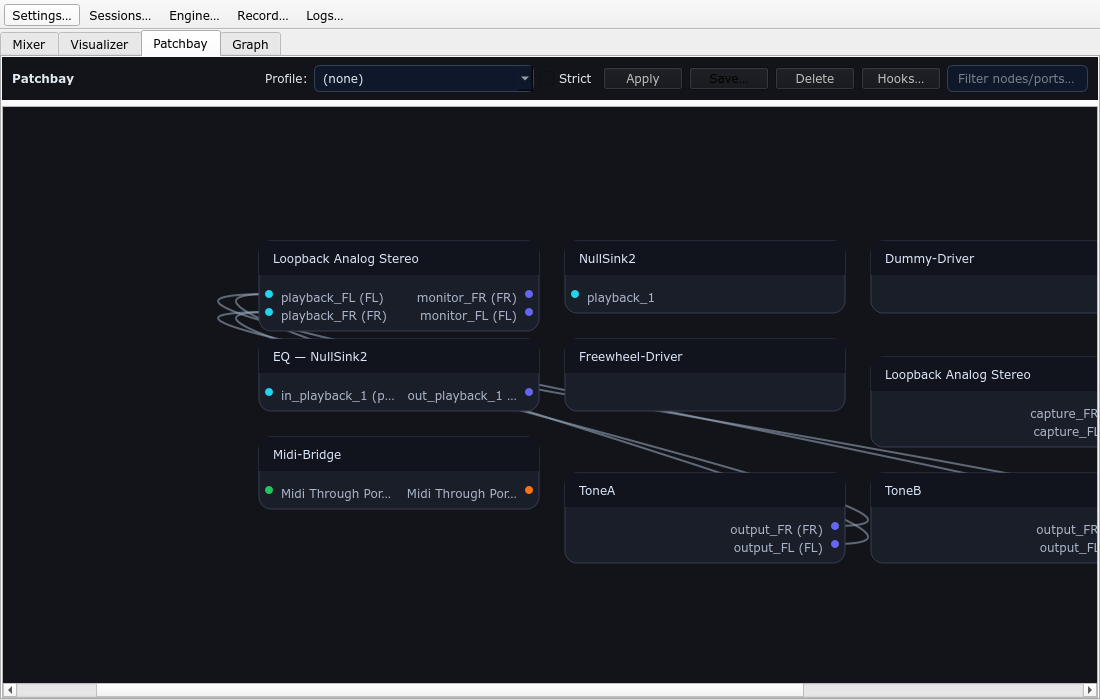
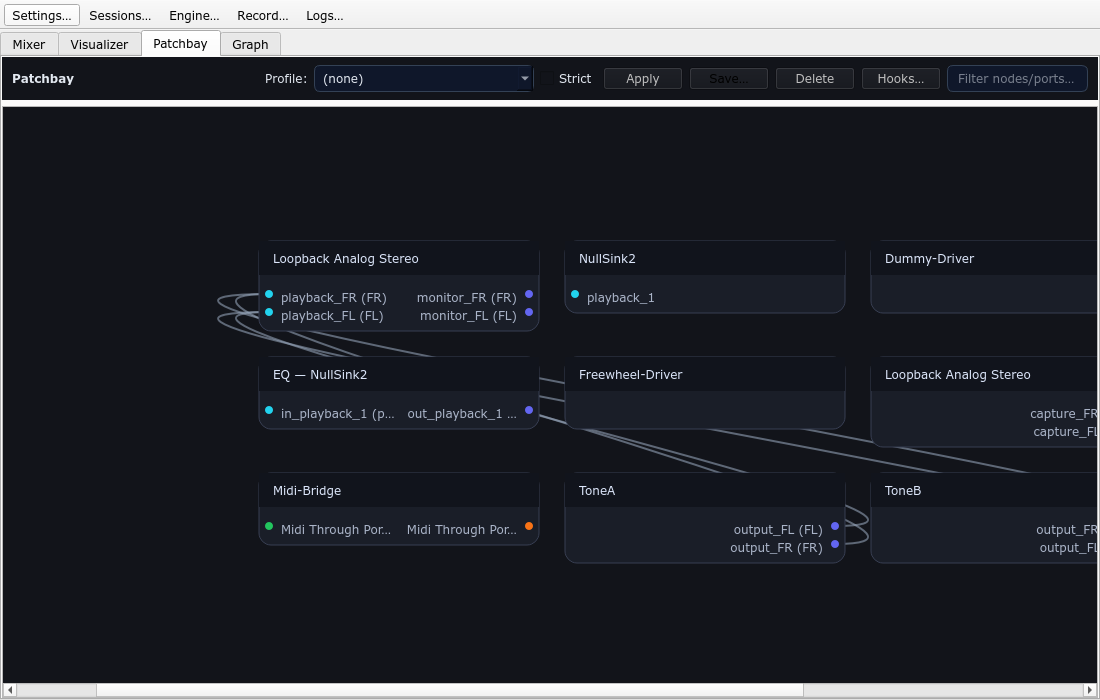
Use demo.opus for screenshot audio

diff --git a/src/ui/PatchbayPage.cpp b/src/ui/PatchbayPage.cpp
@@ -1356,8 +1356,9 @@ void PatchbayPage::rebuild()
   const qreal labelMaxW = std::max<qreal>(60.0, (nodeW - 2 * pad - 2 * 8 - 16) / 2.0);
 
   int col = 0;
-  int row = 0;
   const int cols = 3;
+  qreal rowY = 0;
+  qreal rowMaxH = 0;
 
   int displayedNodes = 0;
 
@@ -1399,15 +1400,17 @@ void PatchbayPage::rebuild()
     const int portCount = std::max(inCount, outCount);
     const qreal nodeH = headerH + pad + portH * std::max(1, portCount) + pad;
 
+    ++displayedNodes;
+
     const qreal x = col * (nodeW + gapX);
-    const qreal y = row * (nodeH + gapY);
+    const qreal y = rowY;
     col++;
+    rowMaxH = std::max(rowMaxH, nodeH);
     if (col >= cols) {
       col = 0;
-      row++;
+      rowY += rowMaxH + gapY;
+      rowMaxH = 0;
     }
-
-    ++displayedNodes;
 
     QPointF pos(x, y);
     if (const auto saved = loadSavedNodePos(n.name)) {

diff --git a/plan.md b/plan.md
@@ -35,6 +35,7 @@
   - `./scripts/make_screenshots.sh`
   - Output: `screenshots/*.png`
   - Note: `make_screenshots.sh` starts a *private* `dbus-daemon` + `pipewire` + `wireplumber` instance and prefers `snd-aloop` (when available) so the visualizers show real audio. If `snd-aloop` can’t be used, it falls back to a virtual null sink.
+  - Audio source: prefers `testdata/audio/demo.opus` (gitignored) and falls back to generated sine tones if missing.
 
 - Upload screenshots:
   - `wtf-upload screenshots/*.png`
